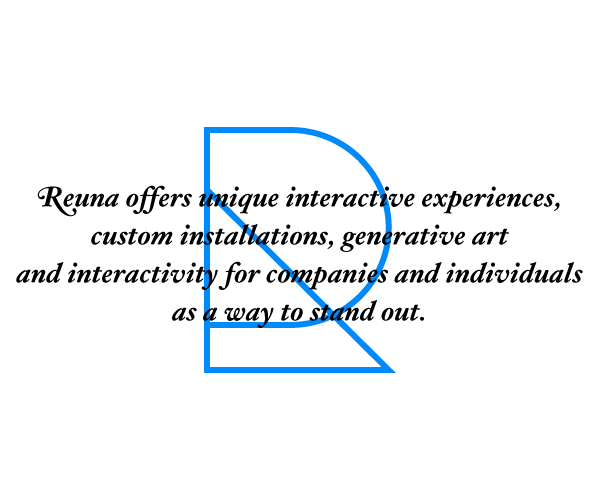
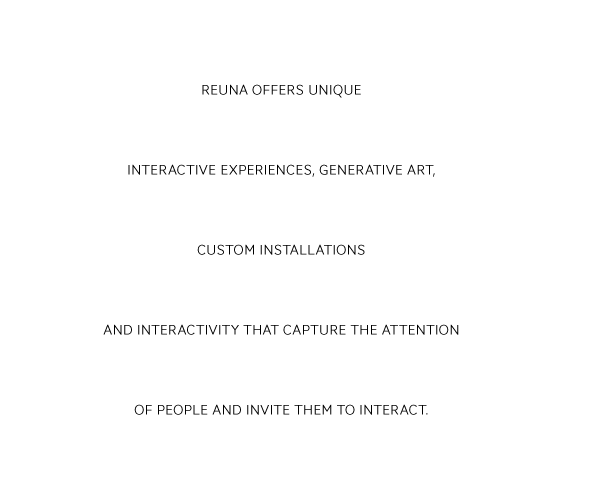
new thingsies

Changed region(s): [[0.03, 0.24, 0.99, 0.75], [0.33, 0.15, 0.6, 0.21], [0.21, 0.81, 0.72, 0.84]]

diff --git a/website/css/style2.css b/website/css/style2.css
@@ -70,7 +70,7 @@ ul#nav {position:fixed;top:25px;left:25px;z-index:200000; letter-spacing:1.5px; 
 ul#nav li {cursor:pointer; line-height:1.8; color:rgba(255, 255, 255, 128); visibility:hidden; }
 ul#nav li:first-child {margin-bottom:10px; visibility:visible;}
 ul#nav li:first-letter {color:rgba(255, 255, 255, 164);}
-#logo { padding-bottom:15px; border-bottom:1px solid #fff; border-color:rgba(255, 255, 255, 0.1);}
+#logo { padding-bottom:15px; border-bottom:6px solid #0089f9; border-color:rgba(0, 137, 250, 0.8);}
 ul#nav li:hover {color:#60c;}
 
 .section {background:#eee;height:100%;width:100%;overflow:hidden;}
@@ -86,11 +86,11 @@ ul#nav li:hover {color:#60c;}
 
 .carousel { } 
 .carousel img {top:0; left:0; position:absolute;}
-.carouseltext {padding:20px 20px 20px 200px; position:absolute; top:0; left:0; height:auto; font-size:18px; color:#fff;
+.carouseltext {padding:20px 20px 20px 200px; position:absolute; top:0; left:0; width:100%; height:80px; font-size:16px; color:#333;
 	/* Fallback for web browsers that doesn't support RGBa */
-	background:rgb(0, 0, 0);
+	background:rgb(255, 255, 255);
 	/* RGBa with opacity */
-	background:rgba(0, 0, 0, 0.4);
+	background:rgba(255, 255, 255, 0.99);
 	/* For IE 5.5 - 7*/
 	filter:progid:DXImageTransform.Microsoft.gradient(startColorstr=#22FFFFFF, endColorstr=#22FFFFFF);
 	/* For IE 8*/

diff --git a/website/index-2.html b/website/index-2.html
@@ -26,7 +26,7 @@
   <div id="container">
     <div id="reuna" class="section">
 			<div>
-				<img src="images/reuna-start.png" alt="reuna is..." />
+				<img src="images/reuna-start.png" alt="Reuna offers unique interactive experiences, custom installations, generative art and interactivity that capture the attention of people and invite them to interact." />
 			</div>
     </div>
     <div id="contentflow" class="section carousel">

diff --git a/website/js/script.js b/website/js/script.js
@@ -110,7 +110,7 @@ $(function() {
   placeCarouselText = function() {
     $('.carousel').find('.carouseltext').each(function(){
       //$(this).css('left', window_width-$(this).outerWidth());
-      $(this).css('width', $(this).outerWidth());
+      $(this).css('width', $(this).width( window_width ));
       $(this).css('visibility','visible');
     });
   }
